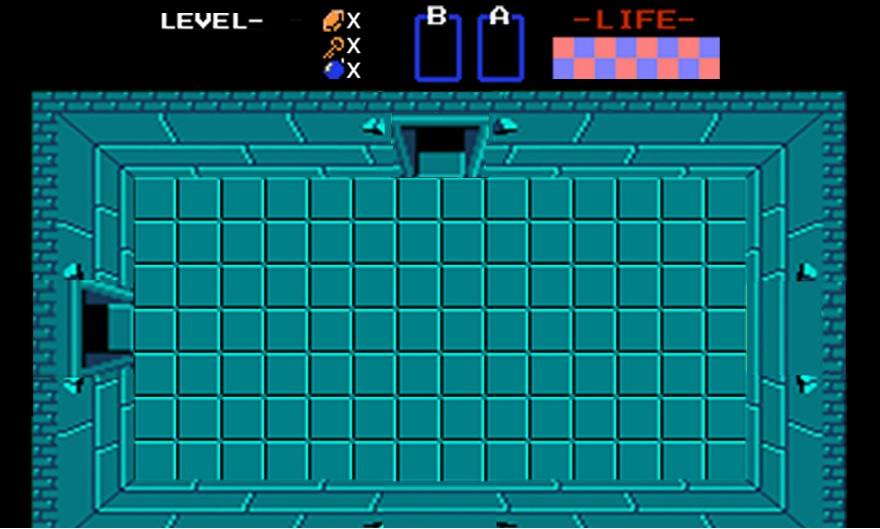
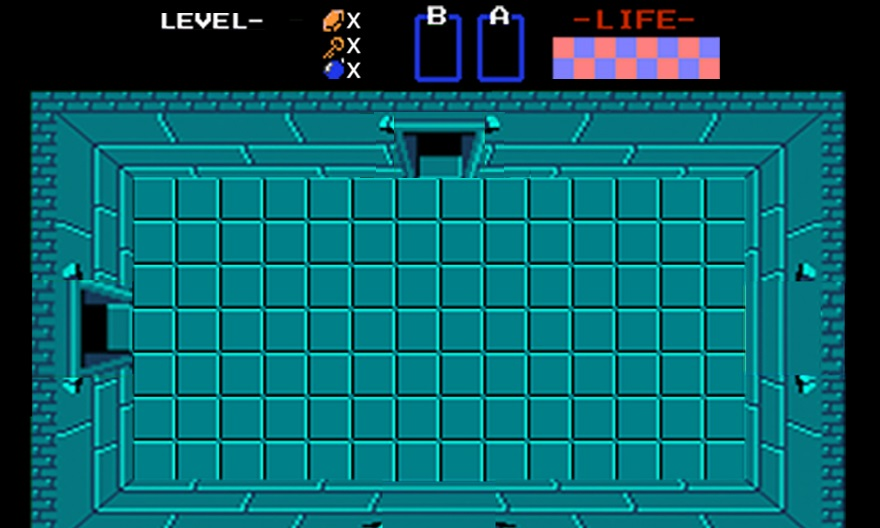
Separated the room and the HUD into 2 different textures to prepare for room transitions

diff --git a/Sprint2Pork/Game1.cs b/Sprint2Pork/Game1.cs
@@ -29,6 +29,8 @@ namespace Sprint2Pork
         private int[] spritePos = new int[2] { 0, 0 };
         private bool moving = false;
         private Texture2D backgroundTexture;
+        private Texture2D hudTexture;
+        private Texture2D roomTexture;
 
         private double timeSinceLastSwitch = 0;
         private double timeSinceSwitchedEnemy = 0;
@@ -119,6 +121,8 @@ namespace Sprint2Pork
             font = Content.Load<SpriteFont>("File");
             // Loading the background/room
             backgroundTexture = Content.Load<Texture2D>("Room1");
+            hudTexture = Content.Load<Texture2D>("ZeldaHUD");
+            roomTexture = Content.Load<Texture2D>("Room1Alone");
             textSprite = new TextSprite(200, 100, font);
 
             GenerateBlocks.fillBlockList(blocks, allTextures[8], blockPosition);
@@ -347,7 +351,9 @@ namespace Sprint2Pork
             GraphicsDevice.Clear(Color.Black);
 
             // Drawing the background/room
-            spriteBatch.Draw(backgroundTexture, new Rectangle(0, 0, viewport.Width, viewport.Height), Color.White);
+            //spriteBatch.Draw(backgroundTexture, new Rectangle(0, 0, viewport.Width, viewport.Height), Color.White);
+            spriteBatch.Draw(hudTexture, new Rectangle(0, 0, viewport.Width, 89), Color.White);
+            spriteBatch.Draw(roomTexture, new Rectangle(0, 90, viewport.Width, viewport.Height-90), Color.White);
 
             //blocks[CurrentBlockIndex].Draw(spriteBatch);
             //items[currentItemIndex].Draw(spriteBatch, allTextures[9]);
